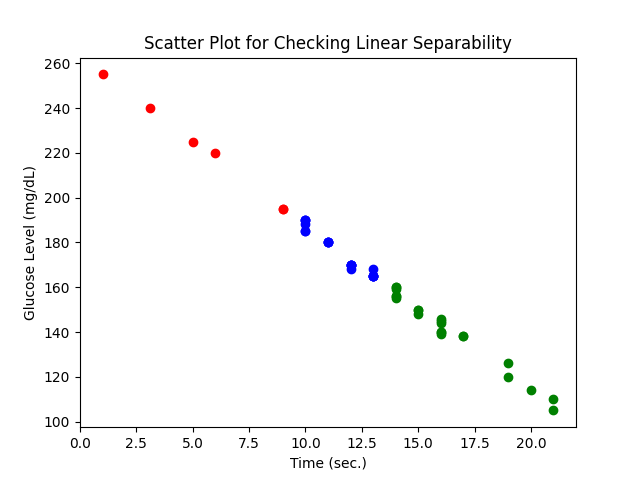
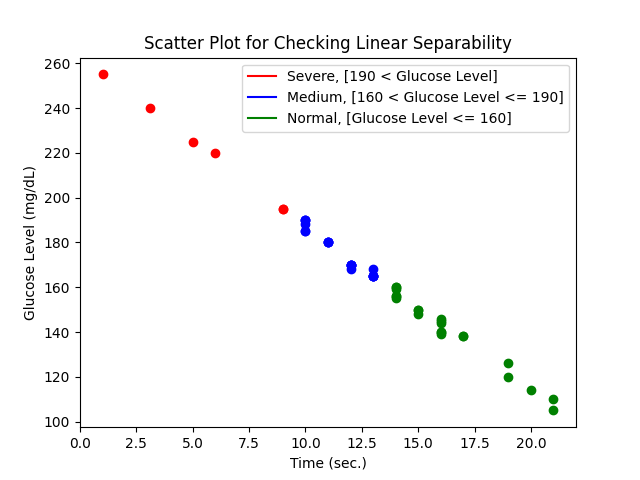
Made changes in graph

Changed region(s): [[0.375, 0.125, 0.9062, 0.2812]]

diff --git a/linearRegressor.py b/linearRegressor.py
@@ -41,6 +41,10 @@ for x,y in zip(X_train,Y_train):
 plt.title('Scatter Plot for Checking Linear Separability')
 plt.xlabel('Time (sec.)')
 plt.ylabel('Glucose Level (mg/dL)')
+plt.plot([], color='red', label='Severe, [190 < Glucose Level]')
+plt.plot([], color='blue', label='Medium, [160 < Glucose Level <= 190]')
+plt.plot([], color='green', label='Normal, [Glucose Level <= 160]')
+plt.legend()
 plt.savefig('./GlucoseVsTime.png')
 plt.close()
 W=np.dot(np.dot(np.linalg.inv(np.dot( np.transpose(X_train),X_train)),np.transpose(X_train)),Y_train)
@@ -82,7 +86,7 @@ print("Mean Squared Error : ",mean_sqError)
 
 plt.plot(Y_test, color='blue', label='Actual Glucose Value')
 plt.plot(Y_predict, color='green', label='Predicted Glucose Value')
-plt.title('Linear Regressor Eq : W= inv(trans(X)*X) * trans(X) * Y')
+plt.title(r'Linear Regressor Eq : $\ W=\left(X^TX\right)^{-1}X^TY$')
 plt.xlabel('Nubmer of values')
 plt.ylabel('Glucose Level (mg/dL)')
 plt.legend()
